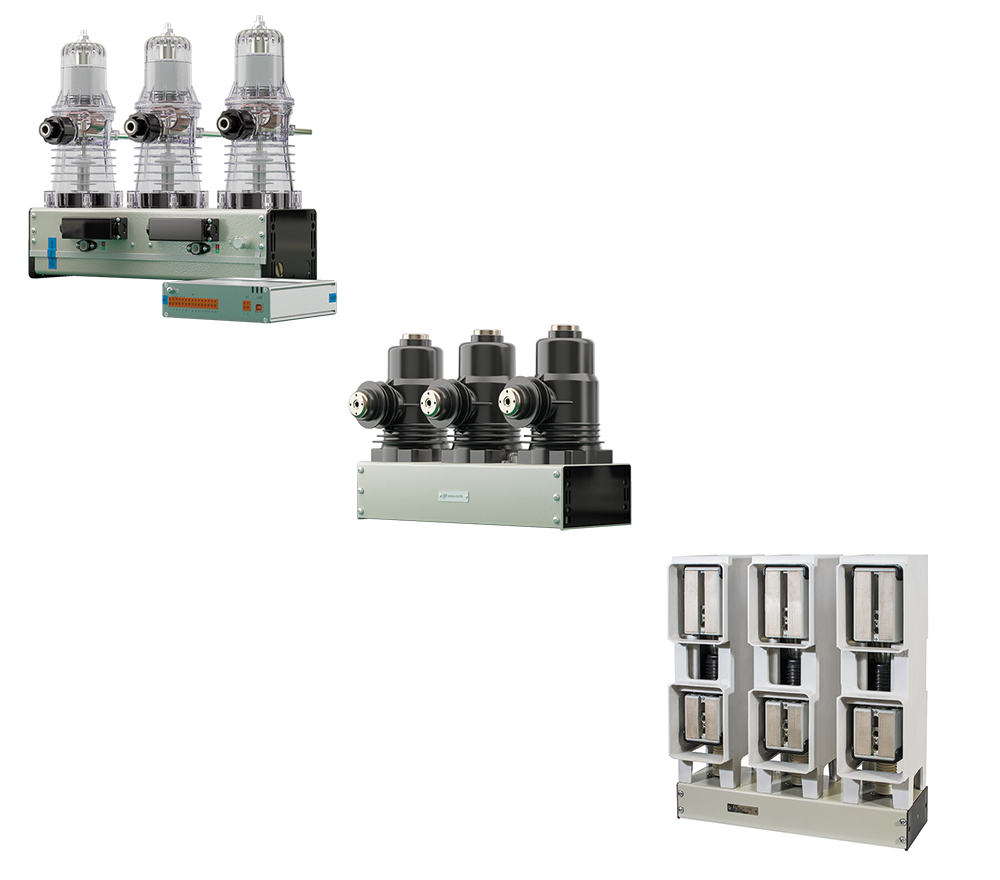
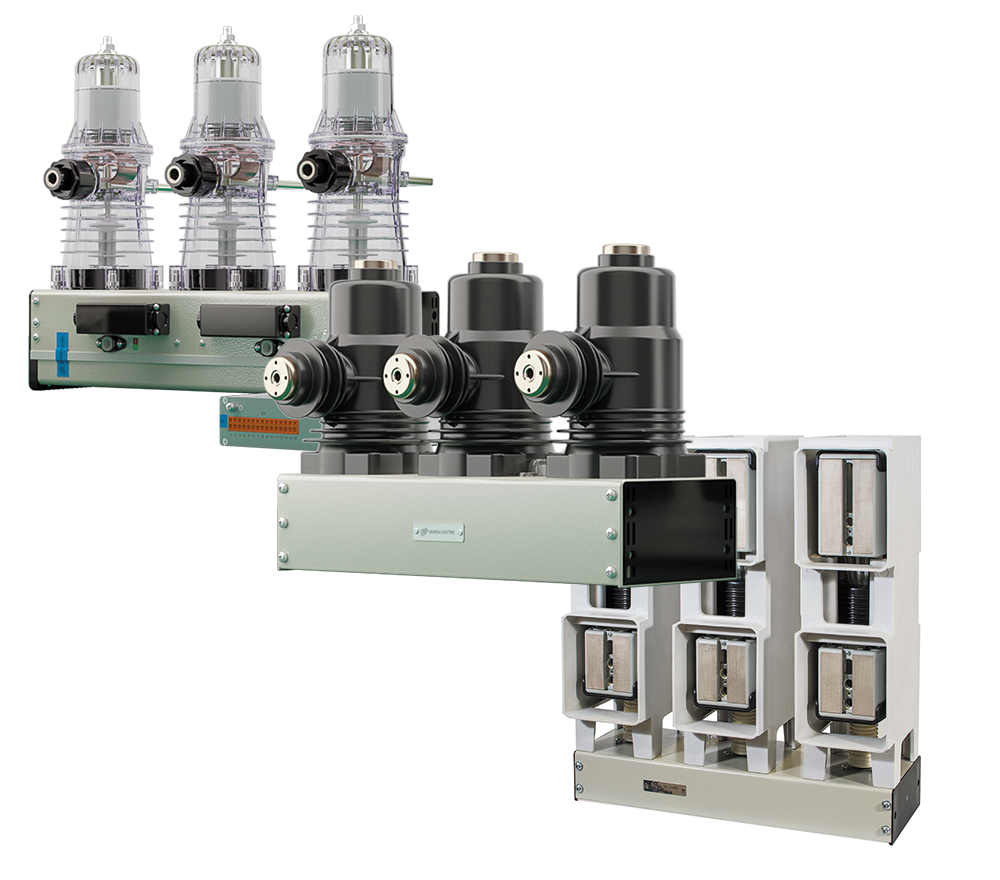
added the MD breaker

diff --git a/src/Pages/MD breaker page/MDPage.jsx b/src/Pages/MD breaker page/MDPage.jsx
@@ -1,42 +1,22 @@
-// import React from 'react';
-// import CombinedInputs from '../../Components/CombinedInputs/CombinedInputs';
-// import CustomButton from '../../Components/CustomButton/CustomButton';
-// import MyInput from '../../Components/MyInput/MyInput';
-// import VCBImages from '../../Components/VCBImage/VCBImage';
+import React from 'react';
+import { clear } from '../../Store/LDvcbSlice';
+import { useSelector, useDispatch } from 'react-redux';
+import VCBConfigurator from '../../Components/VCBConfigurator/VCBConfigurator';
 
-// import { clear } from '../../Store/MDvcbSlice';
-// import { useSelector, useDispatch } from 'react-redux';
+const MDPage = () => {
+  const dispatch = useDispatch();
+  const MDvcbState = useSelector(state => state.MDvcb);
+  const clearFields = () => {
+    dispatch(clear());
+  };
 
-// const LDPage = () => {
-//   const dispatch = useDispatch();
-//   const MDvcbState = useSelector(state => state.MDvcb);
-//   const clearFields = () => {
-//     dispatch(clear());
-//   };
+  return (
+    <VCBConfigurator
+      clearFields={clearFields}
+      vcbState={MDvcbState}
+      imageUrl={'/img/MDbreaker.png'}
+    ></VCBConfigurator>
+  );
+};
 
-//   return (
-//     <React.Fragment>
-//       <CombinedInputs>
-//         {Object.keys(MDvcbState).map(key => {
-//           return (
-//             <MyInput
-//               value={MDvcbState[key].value}
-//               key={key}
-//               options={MDvcbState[key].adjustedOptions}
-//               parName={key}
-//             ></MyInput>
-//           );
-//         })}
-//         <div className='buttonsContainer'>
-//           <CustomButton>Make an order</CustomButton>
-//           <CustomButton inverted={true} clickHandler={clearFields}>
-//             Clear
-//           </CustomButton>
-//         </div>
-//       </CombinedInputs>
-//       <VCBImages></VCBImages>
-//     </React.Fragment>
-//   );
-// };
-
-// export default LDPage;
+export default MDPage;

diff --git a/src/Pages/LD breaker page/LDPage.jsx b/src/Pages/LD breaker page/LDPage.jsx
@@ -1,9 +1,4 @@
 import React from 'react';
-import CombinedInputs from '../../Components/CombinedInputs/CombinedInputs';
-import CustomButton from '../../Components/CustomButton/CustomButton';
-import MyInput from '../../Components/MyInput/MyInput';
-import LDImage from '../../Components/VCBImage/VCBImage';
-import styles from './LDPage.module.scss';
 import { clear } from '../../Store/LDvcbSlice';
 import { useSelector, useDispatch } from 'react-redux';
 import VCBConfigurator from '../../Components/VCBConfigurator/VCBConfigurator';
@@ -19,32 +14,9 @@ const LDPage = () => {
     <VCBConfigurator
       clearFields={clearFields}
       vcbState={LDvcbState}
+      imageUrl={'/img/LDCrossSection.png'}
     ></VCBConfigurator>
   );
-
-  // return (
-  //   <div className={styles.LDcontainer}>
-  //     <CombinedInputs>
-  //       {Object.keys(LDvcbState).map(key => {
-  //         return (
-  //           <MyInput
-  //             value={LDvcbState[key].value}
-  //             key={key}
-  //             options={LDvcbState[key].adjustedOptions}
-  //             parName={key}
-  //           ></MyInput>
-  //         );
-  //       })}
-  //       <div className='buttonsContainer'>
-  //         <CustomButton>Make an order</CustomButton>
-  //         <CustomButton inverted={true} clickHandler={clearFields}>
-  //           Clear
-  //         </CustomButton>
-  //       </div>
-  //     </CombinedInputs>
-  //     <LDImage></LDImage>
-  //   </div>
-  // );
 };
 
 export default LDPage;

diff --git a/src/Components/VCBConfigurator/VCBConfigurator.jsx b/src/Components/VCBConfigurator/VCBConfigurator.jsx
@@ -5,7 +5,7 @@ import CustomButton from '../CustomButton/CustomButton';
 import MyInput from '../MyInput/MyInput';
 import VCBImage from '../VCBImage/VCBImage';
 
-const VCBConfigurator = ({ vcbState, clearFields }) => {
+const VCBConfigurator = ({ vcbState, clearFields, imageUrl }) => {
   return (
     <div className={styles.VCBcontainer}>
       <CombinedInputs>
@@ -26,7 +26,7 @@ const VCBConfigurator = ({ vcbState, clearFields }) => {
           </CustomButton>
         </div>
       </CombinedInputs>
-      <VCBImage backgroundImage={'here i shou put the path'}></VCBImage>
+      <VCBImage imageUrl={imageUrl}></VCBImage>
     </div>
   );
 };

diff --git a/src/Components/VCBImage/VCBImage.module.scss b/src/Components/VCBImage/VCBImage.module.scss
@@ -1,7 +1,7 @@
 .imgContainer {
   width: 45%;
   //   border: 1px solid red;
-  box-shadow: 0 1rem 1rem rgba(0, 0, 0, 0.164);
+  // box-shadow: 0 1rem 1rem rgba(0, 0, 0, 0.164);
   border-radius: 1rem;
   overflow: hidden;
 }
@@ -9,8 +9,9 @@
 .mainImage {
   width: 100%;
   height: 100%;
-  background-image: url(../../assets/img/LDCrossSection.png);
+  // background-image: url(../../assets/img/LDCrossSection.png);
   background-size: contain;
+  background-size: cover;
   //   background-size: cover;
   background-repeat: no-repeat;
   background-position: center;

diff --git a/src/Components/VCBImage/VCBImage.jsx b/src/Components/VCBImage/VCBImage.jsx
@@ -1,9 +1,12 @@
 import React from 'react';
 import styles from './VCBImage.module.scss';
-const VCBImage = () => {
+const VCBImage = ({ imageUrl }) => {
   return (
     <div className={styles.imgContainer}>
-      <div className={styles.mainImage}></div>
+      <div
+        className={styles.mainImage}
+        style={{ backgroundImage: `url(${imageUrl})` }}
+      ></div>
     </div>
   );
 };

diff --git a/src/Components/ImageSection/ImageSection.module.scss b/src/Components/ImageSection/ImageSection.module.scss
@@ -1,11 +1,11 @@
 .image {
   background-image: url('../../assets/img/3breakers.png');
-  width: 50%;
-  height: 80vh;
+  width: 70%;
+  // min-height: 70rem;
   position: relative;
-  left: -1%;
   background-position: center;
-  background-size: contain;
+  background-size: cover;
   // border: 1px solid red;
   background-repeat: no-repeat;
+  // border: 1px solid red;
 }

diff --git a/src/Pages/WelcomePage/WelcomePage.jsx b/src/Pages/WelcomePage/WelcomePage.jsx
@@ -1,7 +1,5 @@
 import React from 'react';
 import styles from './WelcomePage.module.scss';
-import SignIn from '../../Components/signin/SignIn.component';
-import SignUp from '../../Components/sign-up/SignUp.component';
 import Options from '../../Components/Options/Options';
 import { Link } from 'react-router-dom';
 import { useSelector } from 'react-redux';

diff --git a/src/Components/Options/Options.module.scss b/src/Components/Options/Options.module.scss
@@ -6,10 +6,10 @@
   display: flex;
   flex-direction: row;
   justify-content: space-between;
-  gap: 0rem;
+  gap: 7rem;
 }
 .textArea {
-  width: 40%;
+  width: 45%;
 }
 
 .option {
